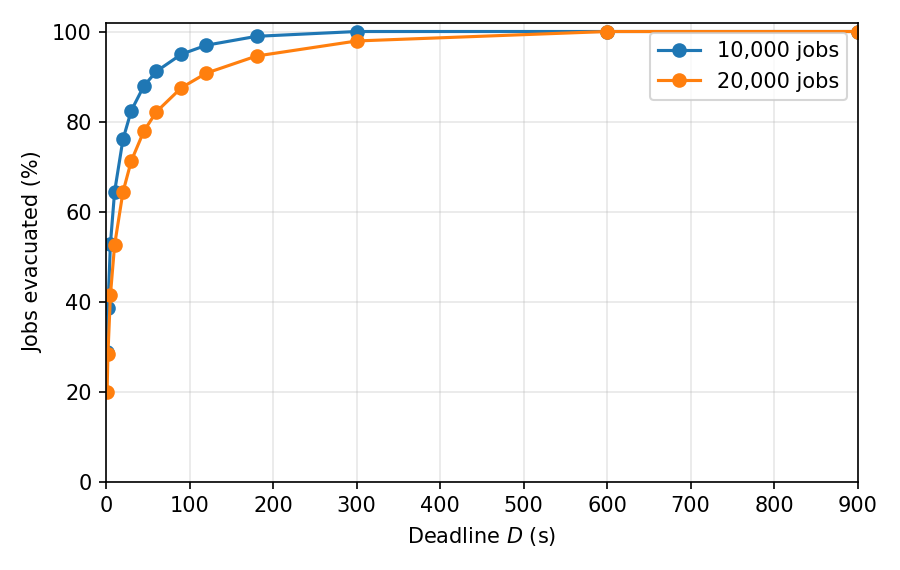
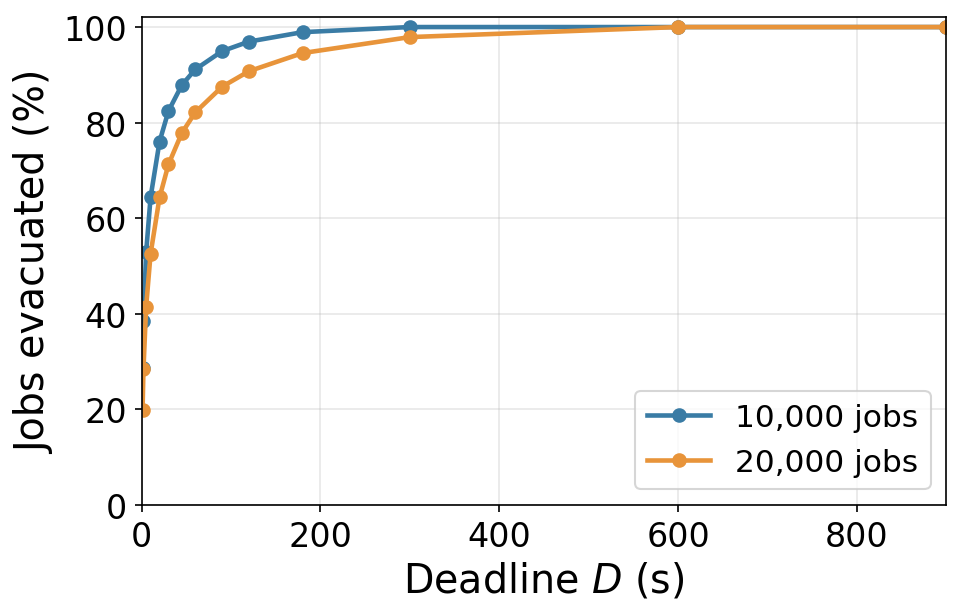
Apply house style to percent-evacuated-vs-D figure
Bump figsize to (6.5, 4.2), use report palette (#3a7ca5 / #e8943a),
lw 2.2, ms 6, large fonts (labels 19, ticks 16, legend 15) so the
single-column render reads ~9-11pt on page; legend in empty lower-right;
savefig bbox_inches=tight.

Changed region(s): [[0.0, 0.0, 0.9956, 0.7456], [0.0933, 0.6263, 0.9956, 0.9842]]

diff --git a/agent-migrate/evacuation/plot_evacuation_vs_deadline.py b/agent-migrate/evacuation/plot_evacuation_vs_deadline.py
@@ -42,18 +42,21 @@ def main() -> None:
         writer.writerow(["total_jobs", "D_s", "Z_star", "percent_evacuated"])
         writer.writerows(rows)
 
-    fig, ax = plt.subplots(figsize=(6.0, 3.8))
+    colors = {10_000: "#3a7ca5", 20_000: "#e8943a"}
+    fig, ax = plt.subplots(figsize=(6.5, 4.2))
     for jobs, pct in series.items():
-        ax.plot(D_SWEEP_S, pct, marker="o", label=f"{jobs:,} jobs", linewidth=1.5)
-    ax.set_xlabel("Deadline $D$ (s)")
-    ax.set_ylabel("Jobs evacuated (%)")
+        ax.plot(D_SWEEP_S, pct, marker="o", color=colors[jobs],
+                label=f"{jobs:,} jobs", linewidth=2.2, markersize=6)
+    ax.set_xlabel("Deadline $D$ (s)", fontsize=19)
+    ax.set_ylabel("Jobs evacuated (%)", fontsize=19)
     ax.set_ylim(0, 102)
     ax.set_xlim(0, max(D_SWEEP_S))
+    ax.tick_params(labelsize=16)
     ax.grid(True, alpha=0.3)
-    ax.legend()
+    ax.legend(fontsize=15, loc="lower right")
     fig.tight_layout()
-    fig.savefig(out / "percent_evacuated_vs_D.pdf")
-    fig.savefig(out / "percent_evacuated_vs_D.png", dpi=150)
+    fig.savefig(out / "percent_evacuated_vs_D.pdf", bbox_inches="tight")
+    fig.savefig(out / "percent_evacuated_vs_D.png", dpi=150, bbox_inches="tight")
     print(f"wrote {out / 'percent_evacuated_vs_D.pdf'}")
 
 
